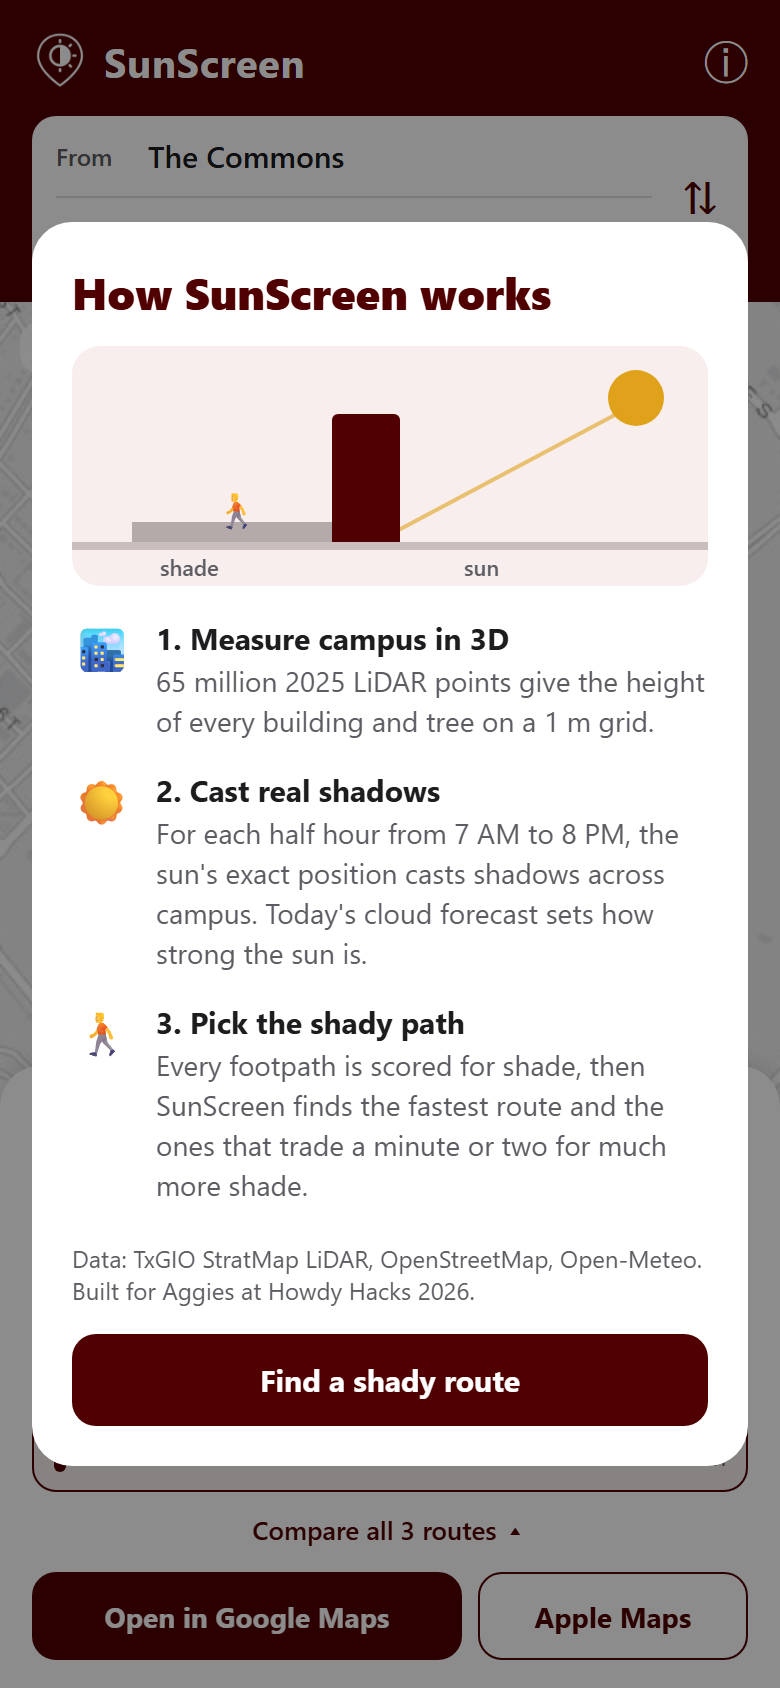
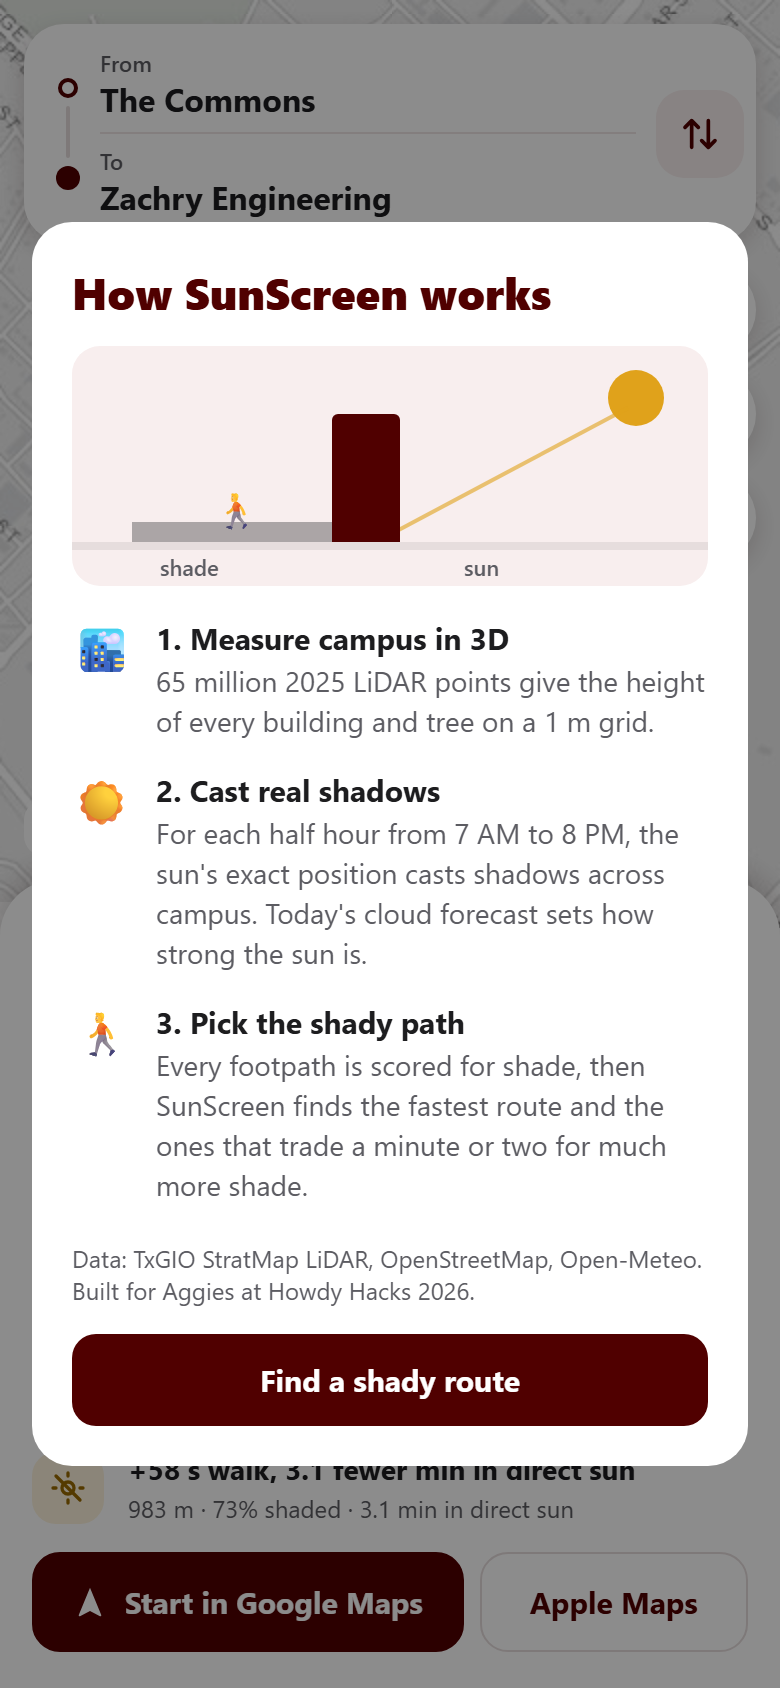
Refresh README screenshots for the redesigned app

diff --git a/README.md b/README.md
@@ -17,12 +17,12 @@ dorms and dining halls; see [campus destinations](docs-misc/campus-places.md).
 
 Try it live at [sunscreen-walks.vercel.app](https://sunscreen-walks.vercel.app/).
 
-| Shade (maroon) vs. sun (gold) | Places grouped by type | Compare all three routes | How it works |
+| Shade (maroon) vs. sun (gold) | Places grouped by type | Night mode by streetlights | How it works |
 |:-:|:-:|:-:|:-:|
-| <img src="docs-misc/screenshots/1-recommended.png" width="200"> | <img src="docs-misc/screenshots/2-pick-a-place.png" width="200"> | <img src="docs-misc/screenshots/3-compare-routes.png" width="200"> | <img src="docs-misc/screenshots/4-how-it-works.png" width="200"> |
+| <img src="docs-misc/screenshots/1-recommended.png" width="200"> | <img src="docs-misc/screenshots/2-pick-a-place.png" width="200"> | <img src="docs-misc/screenshots/3-night-mode.png" width="200"> | <img src="docs-misc/screenshots/4-how-it-works.png" width="200"> |
 
-<img src="docs-misc/screenshots/desktop.png" width="820" alt="SunScreen on a laptop: controls in a side panel, map on the right">
+<img src="docs-misc/screenshots/desktop.png" width="820" alt="SunScreen on a laptop: sun timeline and route cards in a side panel, map on the right">
 
-You can route between 401 campus destinations, any searched address, a dropped pin, or your current location, and the map stays locked to campus, Northgate, Southside and West Campus. A one-time pipeline turns **65 million LiDAR points** into 1 m height maps, casts shadows from every roof and tree for each half hour from 7 AM to 8 PM, and records how much of each footpath is shaded. The API weighs that shade against today's cloud forecast. It returns three routes: **Fastest**, **Recommended** (about a minute longer for noticeably more shade) and **Max shade**, and any of them can be opened in Google Maps or Apple Maps for turn-by-turn directions. The selected route is colored segment by segment from shade (maroon) to sun (gold), and `Play day` animates the routes from 7 AM to 8 PM as the sun moves. For The Commons to Zachry at 2 PM, that's **42%, 73% and 82% shaded**. After dark, **Night mode** switches to routing by streetlight coverage from TAMU's lamp inventory and OpenStreetMap, comparing Fastest, Recommended and Most lit routes.
+You can route between 401 campus destinations, any searched address, a dropped pin, or your current location, and the map stays locked to campus, Northgate, Southside and West Campus. A one-time pipeline turns **65 million LiDAR points** into 1 m height maps, casts shadows from every roof and tree for each half hour from 7 AM to 8 PM, and records how much of each footpath is shaded. The API weighs that shade against today's cloud forecast. It returns three routes: **Fastest**, **Recommended** (about a minute longer for noticeably more shade) and **Max shade**, and any of them can be opened in Google Maps or Apple Maps for turn-by-turn directions. The selected route is colored segment by segment from shade (maroon) to sun (gold), and the play button animates the routes from 7 AM to 8 PM as the sun moves along the timeline. For The Commons to Zachry at 2 PM, that's **42%, 73% and 82% shaded**. After dark, **Night mode** switches to routing by streetlight coverage from TAMU's lamp inventory and OpenStreetMap, comparing Fastest, Recommended and Most lit routes.
 
 The pipeline, API and app run end to end on real data, and the live site runs the same routing API on Vercel with live weather. Shadow directions were checked against the sun's position on the real campus data and match within a few degrees. **The app hasn't been tested on a phone in Expo Go yet**, and the LiDAR was flown in January, so deciduous trees cast less shade than they do in summer.
